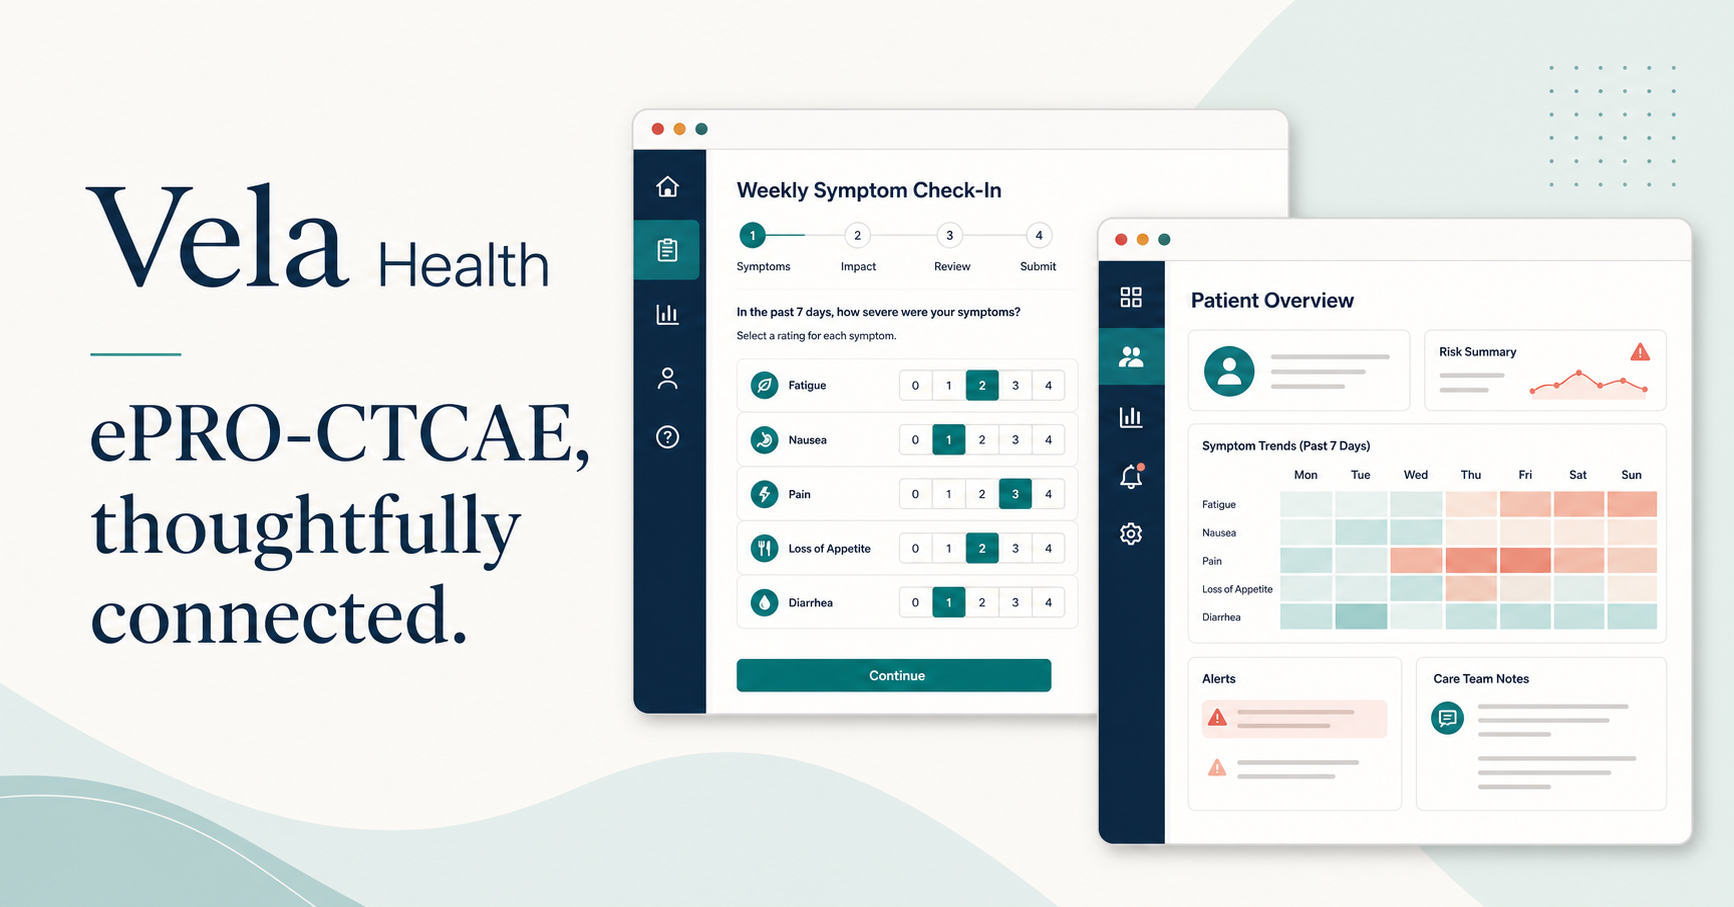
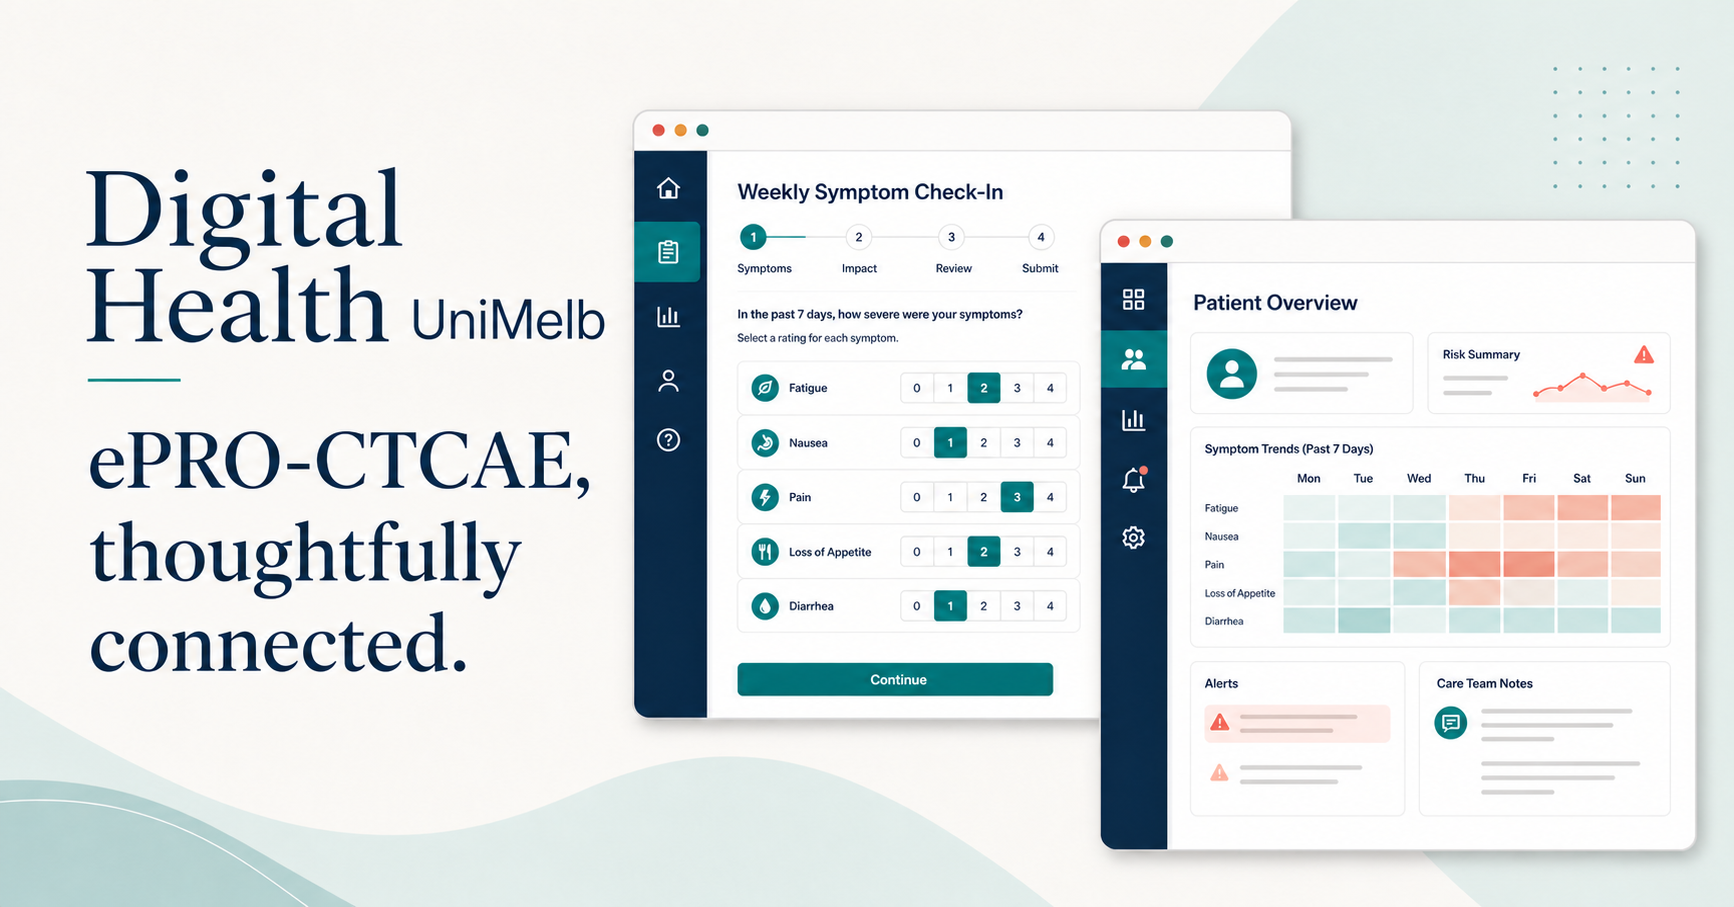
Rebrand prototype for Digital Health UniMelb

diff --git a/app/page.tsx b/app/page.tsx
@@ -52,8 +52,8 @@ export default function Home() {
   return (
     <main className="app-shell">
       <header className="topbar">
-        <button className="brand" onClick={() => setPortal("patient")} aria-label="Vela Health home">
-          <span className="brand-mark">V</span><span>Vela<span className="brand-light"> Health</span></span>
+        <button className="brand" onClick={() => setPortal("patient")} aria-label="Digital Health UniMelb home">
+          <span className="brand-mark">DH</span><span>Digital Health<span className="brand-light"> UniMelb</span></span>
         </button>
         <nav className="portal-switch" aria-label="Choose portal">
           <button className={portal === "patient" ? "active" : ""} onClick={() => setPortal("patient")}>Patient view</button>
@@ -116,7 +116,7 @@ export default function Home() {
       ) : (
         <section className="clinician-layout">
           <aside className="clinician-sidebar">
-            <div className="workspace-name"><div className="clinic-mark">VH</div><div><strong>Vela Oncology</strong><span>Clinical workspace</span></div></div>
+            <div className="workspace-name"><div className="clinic-mark">DH</div><div><strong>Digital Health UniMelb</strong><span>Clinical workspace</span></div></div>
             <nav className="side-nav"><button className="active">▦ Overview <span>2</span></button><button>♙ Patients</button><button>◫ Check-ins</button><button>⚑ Alerts <span>2</span></button><button>⌁ Analytics</button></nav>
             <div className="clinician-profile"><div className="avatar navy">EC</div><div><strong>Dr. Emily Chen</strong><span>Medical Oncology</span></div><button>•••</button></div>
           </aside>
@@ -141,7 +141,7 @@ export default function Home() {
               </div>
               <aside className="detail-card">
                 <div className="detail-person"><div className={`large-avatar ${selected.color}`}>{selected.initials}</div><div><h2>{selected.name}</h2><p>{selected.id} · Breast cancer</p></div><button>•••</button></div>
-                <div className="detail-meta"><div><span>PROTOCOL</span><strong>VELA-BC-04</strong></div><div><span>CYCLE</span><strong>{selected.regimen}</strong></div></div>
+                <div className="detail-meta"><div><span>PROTOCOL</span><strong>DHU-BC-04</strong></div><div><span>CYCLE</span><strong>{selected.regimen}</strong></div></div>
                 <div className={`alert-box ${alertAcknowledged ? "acknowledged" : ""}`}><div className="alert-top"><span>{alertAcknowledged ? "✓" : "!"}</span><div><strong>{alertAcknowledged ? "Alert acknowledged" : "Clinical review suggested"}</strong><small>Rule-based prototype signal</small></div></div><p>{selected.issue} was reported above the configured review threshold.</p><button onClick={() => { setAlertAcknowledged(true); notify("Alert acknowledged"); }}>{alertAcknowledged ? "Acknowledged" : "Acknowledge alert"}</button></div>
                 <div className="trend-head"><div><h3>Symptom trend</h3><p>Patient-reported severity · 6 weeks</p></div><select aria-label="Choose symptom"><option>Fatigue</option><option>Nausea</option><option>Pain</option></select></div>
                 <div className="chart" aria-label="Fatigue severity trend from mild to severe over six weeks"><div className="chart-labels"><span>Very severe</span><span>Severe</span><span>Moderate</span><span>Mild</span><span>None</span></div><div className="chart-area"><div className="grid-lines"><i/><i/><i/><i/><i/></div><div className="trend-line"><b style={{left:"2%",bottom:"18%"}}/><b style={{left:"20%",bottom:"26%"}}/><b style={{left:"39%",bottom:"42%"}}/><b style={{left:"58%",bottom:"39%"}}/><b style={{left:"77%",bottom:"62%"}}/><b style={{left:"96%",bottom:"78%"}}/></div><div className="dates"><span>8 Jul</span><span>15 Jul</span><span>22 Jul</span><span>29 Jul</span><span>5 Aug</span><span>12 Aug</span></div></div></div>

diff --git a/app/globals.css b/app/globals.css
@@ -8,7 +8,7 @@ button { color:inherit; }
 .app-shell { min-height:100vh; }
 .topbar { height:72px; padding:0 34px; display:flex; align-items:center; justify-content:space-between; background:#fff; border-bottom:1px solid var(--line); position:relative; z-index:5; }
 .brand { border:0; background:none; display:flex; align-items:center; gap:10px; font-size:19px; font-weight:800; letter-spacing:-.4px; cursor:pointer; }
-.brand-mark { width:34px; height:34px; display:grid; place-items:center; border-radius:11px 11px 11px 3px; color:#fff; background:var(--teal); font-family:Georgia,serif; font-size:22px; }
+.brand-mark { width:38px; height:34px; display:grid; place-items:center; border-radius:11px 11px 11px 3px; color:#fff; background:var(--teal); font-size:11px; letter-spacing:-.4px; }
 .brand-light { font-weight:400; }
 .portal-switch { position:absolute; left:50%; transform:translateX(-50%); background:#f1f4f2; padding:4px; border-radius:10px; display:flex; }
 .portal-switch button { border:0; padding:9px 18px; border-radius:7px; background:transparent; font-size:13px; font-weight:700; cursor:pointer; color:#71808b; }

diff --git a/app/layout.tsx b/app/layout.tsx
@@ -12,10 +12,10 @@ export async function generateMetadata(): Promise<Metadata> {
   const protocol = requestHeaders.get("x-forwarded-proto") ?? (host.startsWith("localhost") ? "http" : "https");
   const imageUrl = `${protocol}://${host}/og.png`;
   return {
-    title: "Vela Health | ePRO-CTCAE Prototype",
+    title: "Digital Health UniMelb | ePRO-CTCAE Prototype",
     description: "A dual-portal prototype for patient symptom reporting and oncology care-team review.",
-    openGraph: { title: "Vela Health", description: "ePRO-CTCAE, thoughtfully connected.", images: [imageUrl] },
-    twitter: { card: "summary_large_image", title: "Vela Health", description: "ePRO-CTCAE, thoughtfully connected.", images: [imageUrl] },
+    openGraph: { title: "Digital Health UniMelb", description: "ePRO-CTCAE, thoughtfully connected.", images: [imageUrl] },
+    twitter: { card: "summary_large_image", title: "Digital Health UniMelb", description: "ePRO-CTCAE, thoughtfully connected.", images: [imageUrl] },
   };
 }
 
